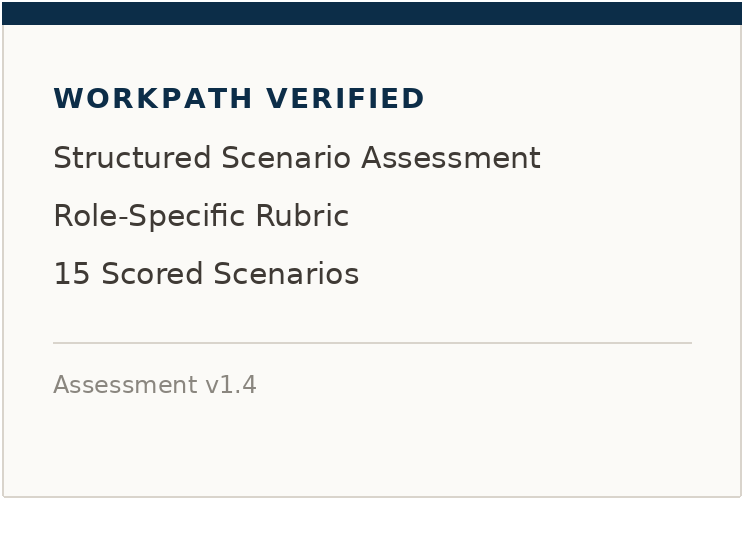
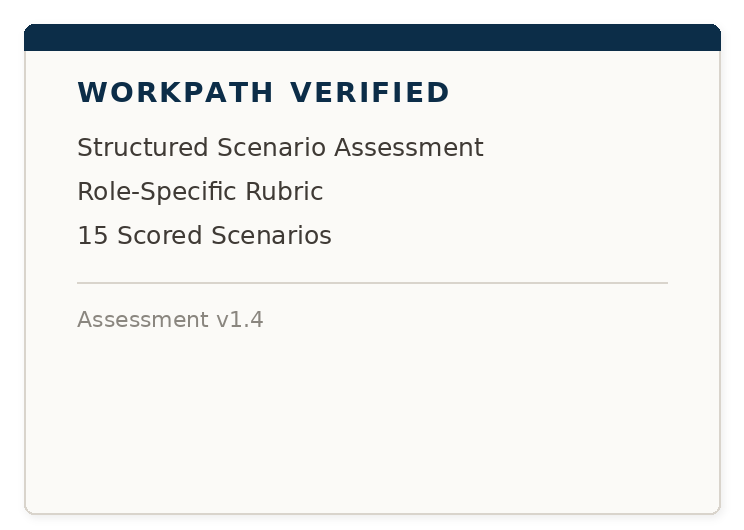
refine: updated badge PNG, new aspect ratio 1.404, nudge placement higher

diff --git a/lib/generatePdf.ts b/lib/generatePdf.ts
@@ -227,8 +227,8 @@ export async function downloadProfilePdf(
     y += 8;
 
     if (showBadge && badgeDataUrl) {
-      const badgeH = BADGE_W / 1.382;
-      doc.addImage(badgeDataUrl, "PNG", BADGE_X, goldRuleY - 2.4, BADGE_W, badgeH);
+      const badgeH = BADGE_W / 1.404;
+      doc.addImage(badgeDataUrl, "PNG", BADGE_X, goldRuleY - 4, BADGE_W, badgeH);
     }
 
     // Metadata rows
